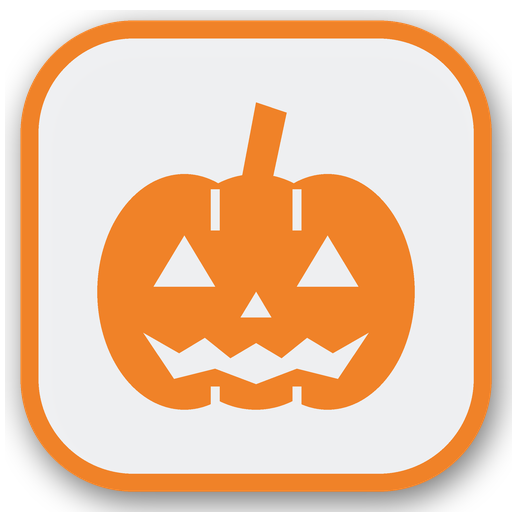
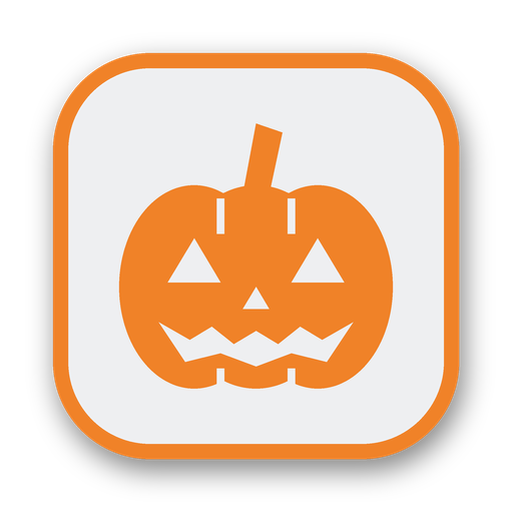
tools: smooth, uncut badge shadows; opaque night badge background
The shadow is now drawn on a larger canvas and blurred before scaling down,
so it is no longer cut off at the edge of the badge image.

Claude-Session: https://claude.ai/code/session_01TPtXe8YEjXWuXNmFgmXabW

diff --git a/tools/variant_badges.py b/tools/variant_badges.py
@@ -18,7 +18,7 @@ import math, os, sys
 from PIL import Image, ImageChops, ImageDraw, ImageFilter
 
 SS = 4                      # supersampling for smooth edges
-BG = (14, 19, 27, 215)      # badge background
+BG = (14, 19, 27, 248)      # night badge background (opaque enough that the cover does not show through)
 WHITE = (240, 244, 248, 255)
 # day badges: very light grey background, the glyph in the badge's own border colour
 # night badges: dark background (BG), white glyph
@@ -26,6 +26,7 @@ BG_LIGHT = (242, 243, 245, 250)
 # the Christmas tree is drawn in this marker colour, so badge() can find it and paint it green
 TREE = (239, 244, 248, 255)
 TREE_GREEN = (52, 150, 80)
+SHADOW_ROOM = 0.08          # transparent room around a badge for its shadow, as a share of its size
 VARIANTS = {
     #  name     accent colour       glyph
     'day':    ((242, 182, 50),  'sun'),
@@ -172,12 +173,21 @@ def badge(spec, size=512):
         green = Image.new('RGBA', (S, S), TREE_GREEN + (255,)); green.putalpha(Image.composite(a, Image.new('L', (S, S), 0), tm))
         g = Image.composite(green, g, tm)
     im.alpha_composite(g)
-    im = im.resize((size, size), Image.LANCZOS)
-    # soft shadow so the badge reads on bright covers too
-    sh = Image.new('RGBA', (size, size), (0, 0, 0, 0)); sh.putalpha(im.getchannel('A').point(lambda v: v*0.55))
-    sh = sh.filter(ImageFilter.GaussianBlur(size*0.03))
-    out = Image.new('RGBA', (size, size), (0, 0, 0, 0)); out.alpha_composite(sh, (int(size*0.01), int(size*0.02))); out.alpha_composite(im)
-    return out
+    # soft shadow so the badge reads on bright covers too. It is drawn on a larger canvas (SHADOW_ROOM
+    # on every side) and blurred before scaling down, so it is smooth and never cut off at the edge.
+    M = round(S * SHADOW_ROOM)
+    out = Image.new('RGBA', (S + 2*M, S + 2*M), (0, 0, 0, 0))
+    sh = Image.new('RGBA', out.size, (0, 0, 0, 0))
+    sh.paste((0, 0, 0, 255), (M + int(S*0.01), M + int(S*0.025)), im.getchannel('A').point(lambda v: int(v*0.5)))
+    out.alpha_composite(sh.filter(ImageFilter.GaussianBlur(S*0.03)))
+    out.alpha_composite(im, (M, M))
+    full = size + 2*round(size*SHADOW_ROOM)
+    return out.resize((full, full), Image.LANCZOS)
+
+def badge_canvas(spec, total=512):
+    # a badge with its shadow, the whole image exactly `total` pixels wide (for the PNG files)
+    inner = round(total / (1 + 2*SHADOW_ROOM))
+    return badge(spec, inner).resize((total, total), Image.LANCZOS)
 
 def stamp(cover_path, out_path, names, scale=0.075, margin=0.025, gap=0.012):
     cover = Image.open(cover_path).convert('RGBA'); W, H = cover.size
@@ -185,18 +195,19 @@ def stamp(cover_path, out_path, names, scale=0.075, margin=0.025, gap=0.012):
     b = max(32, min(b, round(H * 0.28)))
     x = W - round(W * margin) - b; y = round(W * margin)
     for n in reversed(names):          # first variant ends up leftmost
-        cover.alpha_composite(badge(n, b), (x, y)); x -= b + round(W * gap)
+        img = badge(n, b); m = (img.width - b) // 2          # the badge itself is b wide, plus its shadow room
+        cover.alpha_composite(img, (x - m, y - m)); x -= b + round(W * gap)
     cover.convert('RGB').save(out_path)
 
 if __name__ == '__main__':
     if sys.argv[1] == 'icons':
         os.makedirs(sys.argv[2], exist_ok=True)
         for n in VARIANTS:
-            if n == 'day': badge('day').save(os.path.join(sys.argv[2], 'badge_day_512.png'))
-            elif n == 'night': badge('night').save(os.path.join(sys.argv[2], 'badge_night_512.png'))
+            if n == 'day': badge_canvas('day').save(os.path.join(sys.argv[2], 'badge_day_512.png'))
+            elif n == 'night': badge_canvas('night').save(os.path.join(sys.argv[2], 'badge_night_512.png'))
             else:
-                badge(n).save(os.path.join(sys.argv[2], f'badge_{n}_day_512.png'))
-                badge(n + ':night').save(os.path.join(sys.argv[2], f'badge_{n}_night_512.png'))
+                badge_canvas(n).save(os.path.join(sys.argv[2], f'badge_{n}_day_512.png'))
+                badge_canvas(n + ':night').save(os.path.join(sys.argv[2], f'badge_{n}_night_512.png'))
     elif sys.argv[1] == 'stamp':
         scale = float(sys.argv[sys.argv.index('--scale') + 1]) if '--scale' in sys.argv else 0.075
         stamp(sys.argv[2], sys.argv[3], sys.argv[4].split(','), scale=scale)
